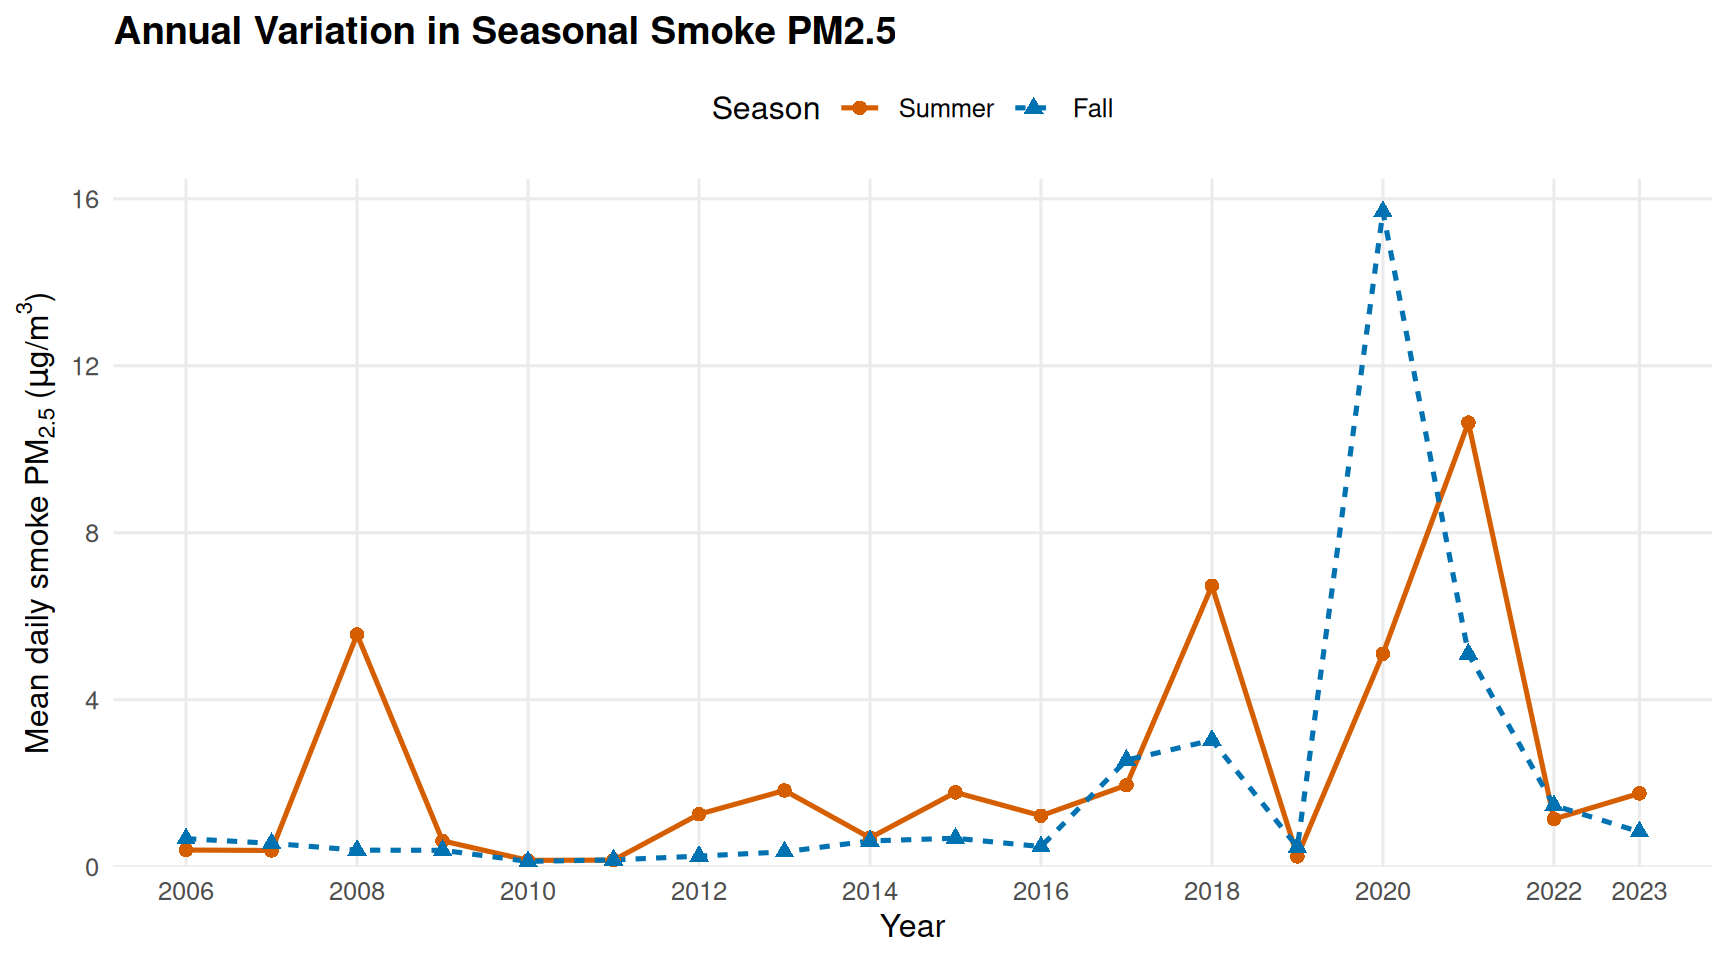
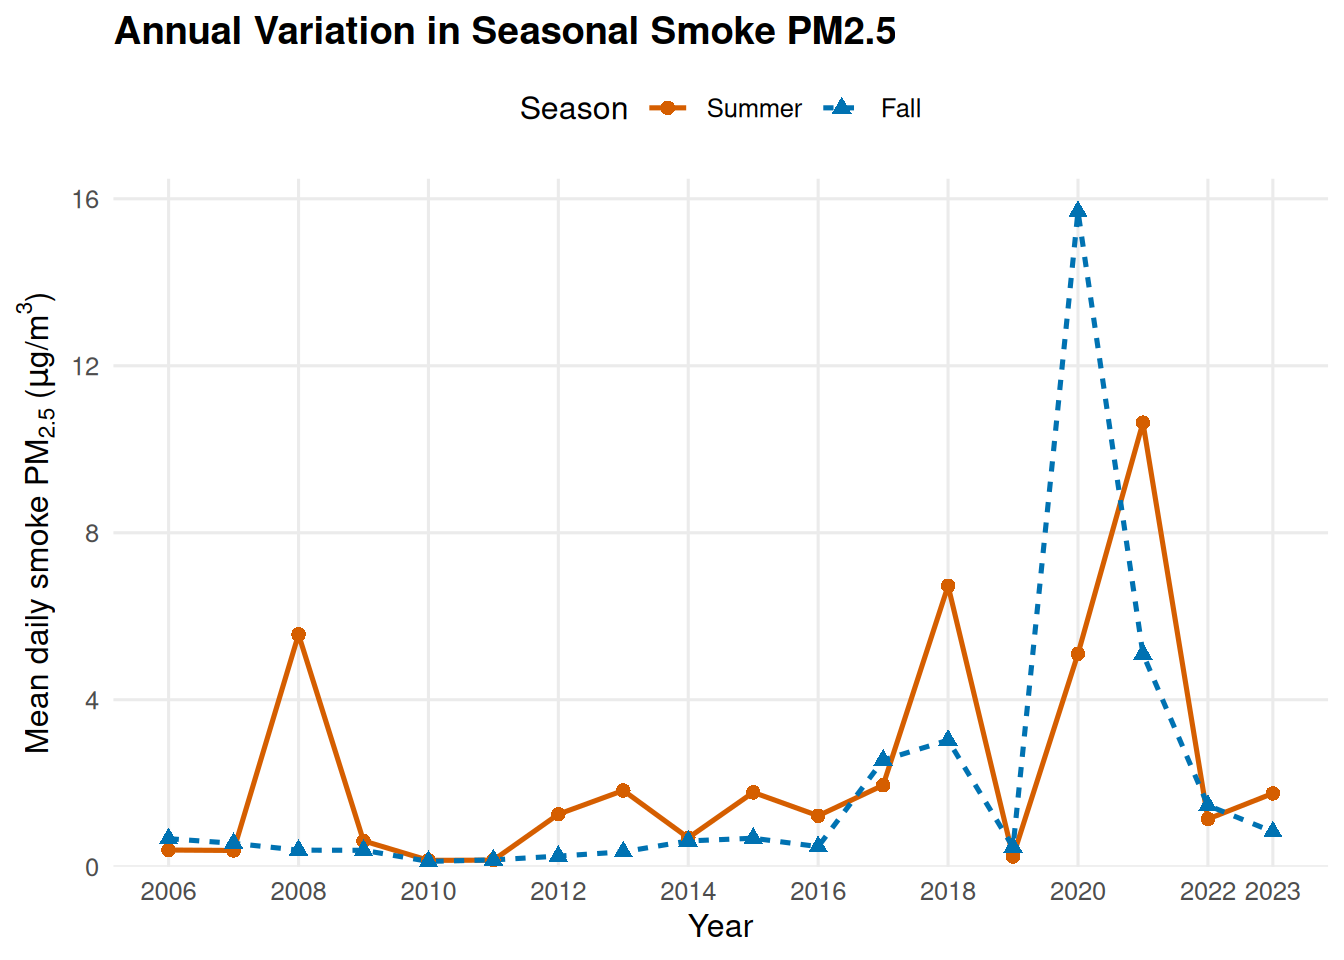
Built site for gh-pages

diff --git a/index.html b/index.html
@@ -390,7 +390,7 @@ Figure&nbsp;1: Spatial distribution of the 10 km grid cells across California.
 <div id="fig-annual-seasonal-means" class="quarto-float quarto-figure quarto-figure-center anchored">
 <figure class="quarto-float quarto-float-fig figure">
 <div aria-describedby="fig-annual-seasonal-means-caption-0ceaefa1-69ba-4598-a22c-09a6ac19f8ca">
-<img src="index_files/figure-html/fig-annual-seasonal-means-1.png" class="img-fluid figure-img" width="864">
+<img src="index_files/figure-html/fig-annual-seasonal-means-1.png" class="img-fluid figure-img" width="672">
 </div>
 <figcaption class="quarto-float-caption-bottom quarto-float-caption quarto-float-fig" id="fig-annual-seasonal-means-caption-0ceaefa1-69ba-4598-a22c-09a6ac19f8ca">
 Figure&nbsp;2: spatial mean of seasonal daily smoke pm2.5 concentrations for summer and fall
@@ -562,7 +562,7 @@ Figure&nbsp;3: Mean drought index from 2006 to 2023 for summer and fall in Calif
 <details class="code-fold">
 <summary>Show Code</summary>
 <div class="code-copy-outer-scaffold"><div class="sourceCode cell-code" id="cb24"><pre class="sourceCode r code-with-copy"><code class="sourceCode r"><span id="cb24-1"><a href="#cb24-1" aria-hidden="true" tabindex="-1"></a><span class="co"># Calculate the pixel-level personal coefficient between season pm2.5 and drought.</span></span>
-<span id="cb24-2"><a href="#cb24-2" aria-hidden="true" tabindex="-1"></a><span class="co"># Match bands to 2006–2023 using the year at the end of each band name.</span></span>
+<span id="cb24-2"><a href="#cb24-2" aria-hidden="true" tabindex="-1"></a><span class="co"># Match bands to 2006-2023 using the year at the end of each band name.</span></span>
 <span id="cb24-3"><a href="#cb24-3" aria-hidden="true" tabindex="-1"></a>match_years <span class="ot">&lt;-</span> <span class="cf">function</span>(r) {</span>
 <span id="cb24-4"><a href="#cb24-4" aria-hidden="true" tabindex="-1"></a>  years <span class="ot">&lt;-</span> <span class="fu">as.integer</span>(<span class="fu">sub</span>(<span class="st">".*([0-9]{4})$"</span>, <span class="st">"</span><span class="sc">\\</span><span class="st">1"</span>, <span class="fu">names</span>(r)))</span>
 <span id="cb24-5"><a href="#cb24-5" aria-hidden="true" tabindex="-1"></a>  <span class="cf">if</span> (<span class="fu">anyNA</span>(years) <span class="sc">||</span> <span class="fu">anyDuplicated</span>(years) <span class="sc">||</span> <span class="sc">!</span><span class="fu">all</span>(<span class="dv">2006</span><span class="sc">:</span><span class="dv">2023</span> <span class="sc">%in%</span> years)) {</span>
